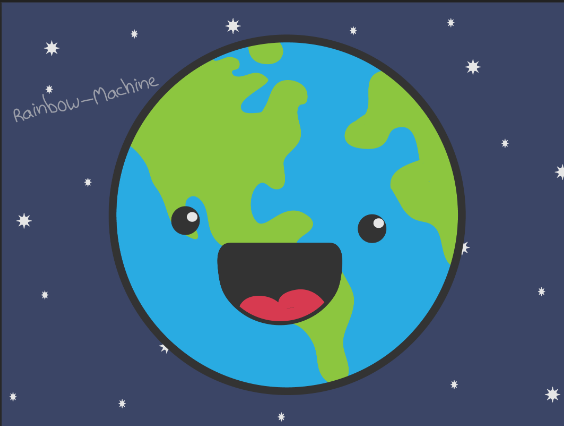
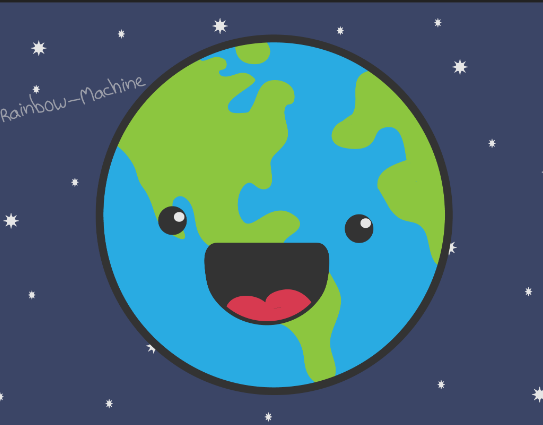
pic adjustment

diff --git a/index.css b/index.css
@@ -32,6 +32,8 @@ img{
    width: 30%;
    height: 20rem;
    object-fit: cover;
+   border: 0.2rem solid #000;
+   border-radius: 25px;
 }
 .second{
     background: rgba(182, 222, 235, 0.548);
